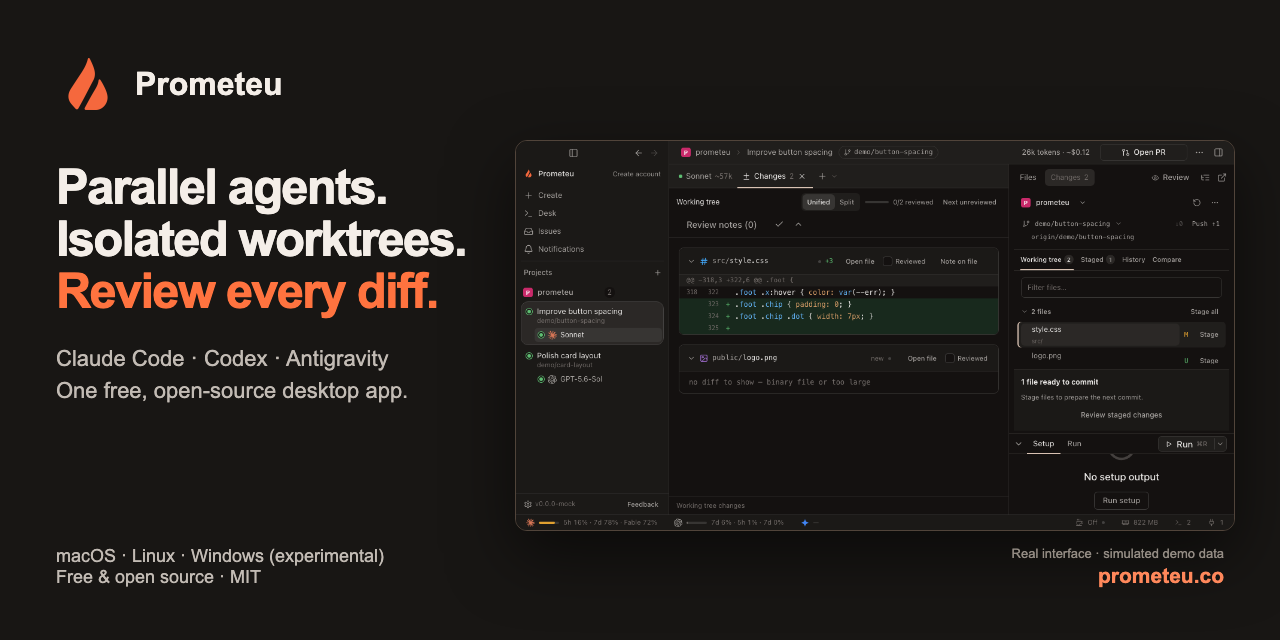
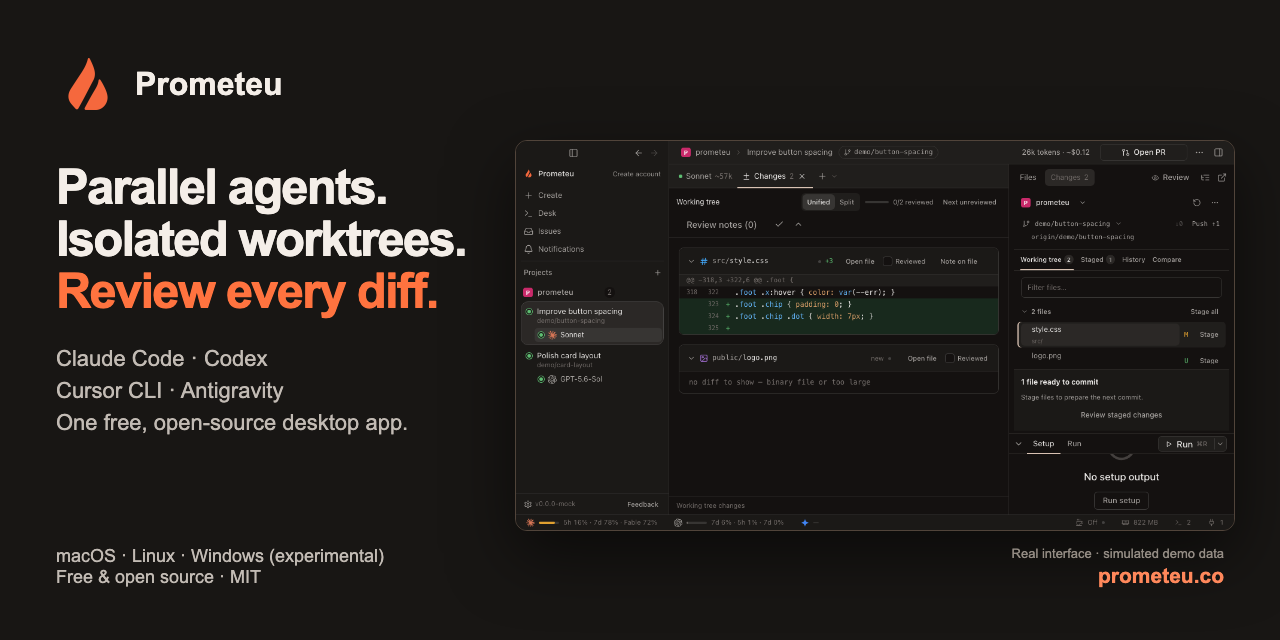
docs(repo): list cursor cli and remove code of conduct
Remove the conduct document and its references. Present Cursor CLI as implemented in the README and social preview artwork.

Validation: documentation links and diff checks pass; the updated README hero fits 1366 × 768 and the GIF animates inline.

Changed region(s): [[0.0312, 0.5312, 0.3125, 0.6875]]

diff --git a/README.md b/README.md
@@ -1,5 +1,5 @@
 <p align="center"><img src="docs/icon.png" alt="Prometeu" width="48" height="48"> <strong>Prometeu</strong><br>
-Run Claude Code, Codex and Antigravity agents in parallel — each in its own git worktree, with built-in diff review.</p>
+Run Claude Code, Codex, Cursor CLI and Antigravity agents in parallel — each in its own git worktree, with built-in diff review.</p>
 
 <p align="center">
   <a href="https://github.com/prometeucorp/prometeu/releases/latest"><img src="https://img.shields.io/github/v/release/prometeucorp/prometeu" alt="Latest release"></a>
@@ -23,7 +23,7 @@ Run Claude Code, Codex and Antigravity agents in parallel — each in its own gi
 - Run parallel agents without juggling terminals.
 - Create isolated worktrees automatically for separate tasks, so agents do not edit the same checkout.
 - Review changes visually before committing and merging.
-- Use Claude Code, Codex and Antigravity in one app on macOS and Linux.
+- Use Claude Code, Codex, Cursor CLI and Antigravity in one app on macOS and Linux.
 - Free and open source under the MIT license. Bring your own provider account; model usage is billed by your provider.
 
 ## Switching from Conductor?
@@ -35,7 +35,7 @@ precedence without merging. See [project scripts](docs/operations/project-script
 
 ## Features
 
-- **Cursor CLI on main:** external CLI login, interactive approvals and account quotas. See [Cursor setup](#cursor-cli--source-builds).
+- **Cursor CLI:** external CLI login, interactive approvals and account quotas. See [Cursor setup](#cursor-cli).
 - **Parallel workspaces:** isolated worktrees, multiple repositories and a desk for conversations side by side.
 - **Visual Git review:** unified or split diffs, review notes, staging, commits, history and conflict resolution.
 - **Built-in tools:** editor, terminal, browser preview, MCP servers, plugins, skills and reusable actions.
@@ -81,19 +81,18 @@ require installing the next version manually. Managed login and Cloud
 synchronization are unavailable. Conversations and files stay in WSL after
 updating or uninstalling. See [Windows coverage](docs/contracts/windows-application.md).
 
-### Cursor CLI — source builds
+### Cursor CLI
 
-Cursor support landed on `main` after v0.34.0. To try it before the next release,
-follow the [source-build guide](docs/operations/development.md). Install a Cursor
-CLI with ACP support, sign in with `agent login`, attach its account in Settings
-and select it in the launcher. Streaming, tools, resume, stop, questions and plan
-approvals are supported. Account quotas use the existing CLI login; hub tool
+Cursor CLI is implemented on macOS and Linux. Install a CLI with ACP support,
+make `cursor-agent` available in your shell, sign in with `agent login`, attach
+its account in Settings and select it in the launcher. Streaming, tools, resume,
+stop, questions and plan approvals are supported. Account quotas use the existing CLI login; hub tool
 selections and per-turn token/cost meters are unavailable. See the
 [Cursor contract](docs/contracts/cursor.md).
 
 ## Quick start
 
-1. **Connect an agent.** Install and authenticate Claude Code, Codex or Antigravity CLI (agy 1.2.7 or newer). Make `claude`, `codex` or `agy` available in your shell. Antigravity uses its CLI login; Windows uses Codex in WSL.
+1. **Connect an agent.** Install and authenticate Claude Code, Codex, Cursor CLI or Antigravity CLI (agy 1.2.7 or newer). Make `claude`, `codex`, `cursor-agent` or `agy` available in your shell. Cursor and Antigravity use their CLI login; Windows uses Codex in WSL.
 2. **Add your project.** Open Prometeu and add a local Git repository or folder. No Prometeu account is required for local work.
 3. **Run your first task.** Create a workspace, choose a model, keep the new-worktree option enabled for isolation, and send a task. Open another workspace for a parallel task, then review changes in the Git view before committing.
 
@@ -123,8 +122,8 @@ privately through [SECURITY.md](SECURITY.md).
 
 ## Contributing
 
-Start with [good first issues](https://github.com/prometeucorp/prometeu/issues?q=is%3Aissue%20is%3Aopen%20label%3A%22good%20first%20issue%22),
-[CONTRIBUTING.md](CONTRIBUTING.md) and our [Code of Conduct](CODE_OF_CONDUCT.md).
+Start with [good first issues](https://github.com/prometeucorp/prometeu/issues?q=is%3Aissue%20is%3Aopen%20label%3A%22good%20first%20issue%22)
+and [CONTRIBUTING.md](CONTRIBUTING.md).
 For local setup and checks, see the [development guide](docs/operations/development.md).
 
 [Documentation](docs/README.md) · [Architecture](ARCHITECTURE.md) ·

diff --git a/docs/operations/repository-presentation.md b/docs/operations/repository-presentation.md
@@ -38,6 +38,6 @@ responses. Their stable asset names are part of the
 [release contract](../contracts/releases.md).
 
 After merging, inspect [Community Standards](https://github.com/prometeucorp/prometeu/community)
-and verify the conduct, contributing, license, README, security, issue-template
+and verify the contributing, license, README, security, issue-template
 and PR-template entries. Private vulnerability reporting must stay enabled for
 the link in `SECURITY.md` to work.

diff --git a/CONTRIBUTING.md b/CONTRIBUTING.md
@@ -32,7 +32,7 @@ boundaries to automated contributions.
 
 ## Community and security
 
-Follow our [Code of Conduct](CODE_OF_CONDUCT.md). Browse
+Browse
 [good first issues](https://github.com/prometeucorp/prometeu/issues?q=is%3Aissue%20is%3Aopen%20label%3A%22good%20first%20issue%22)
 for scoped starting points. Report vulnerabilities privately as described in
 [SECURITY.md](SECURITY.md), not in public issues.
